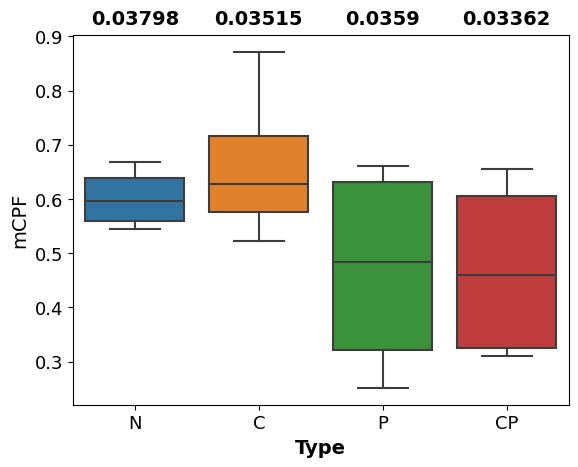
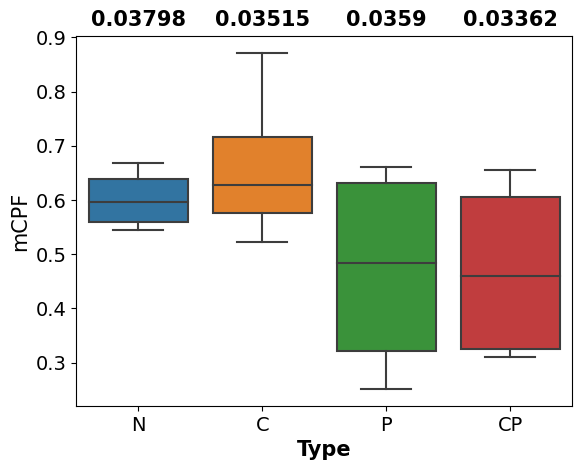
one more change

diff --git a/src/boxplot.py b/src/boxplot.py
@@ -11,16 +11,16 @@ def create_boxplots(path, dataset, df):
     # Calculate the average per 'Type' for the 'All' column
     averages = df.groupby('Type')['All'].mean().round(5)
 
-    plt.xlabel('Type', fontsize=14, weight='bold')
-    plt.ylabel('mCPF', fontsize=14)
-    plt.xticks(fontsize=13)
-    plt.yticks(fontsize=13)
+    plt.xlabel('Type', fontsize=15, weight='bold')
+    plt.ylabel('mCPF', fontsize=15)
+    plt.xticks(fontsize=14)
+    plt.yticks(fontsize=14)
     
     # Add average annotations on top of the boxes
     y_min, y_max = plt.ylim()
     for i in range(4):
         average = averages[i]
-        ax.text(i, y_max + 0.03, average, ha='center', va='center', weight='bold', size=14)
+        ax.text(i, y_max + 0.03, average, ha='center', va='center', weight='bold', size=15)
 
     plt.savefig(os.path.join(path, f'{dataset}.png'), bbox_inches='tight')
     plt.close()
